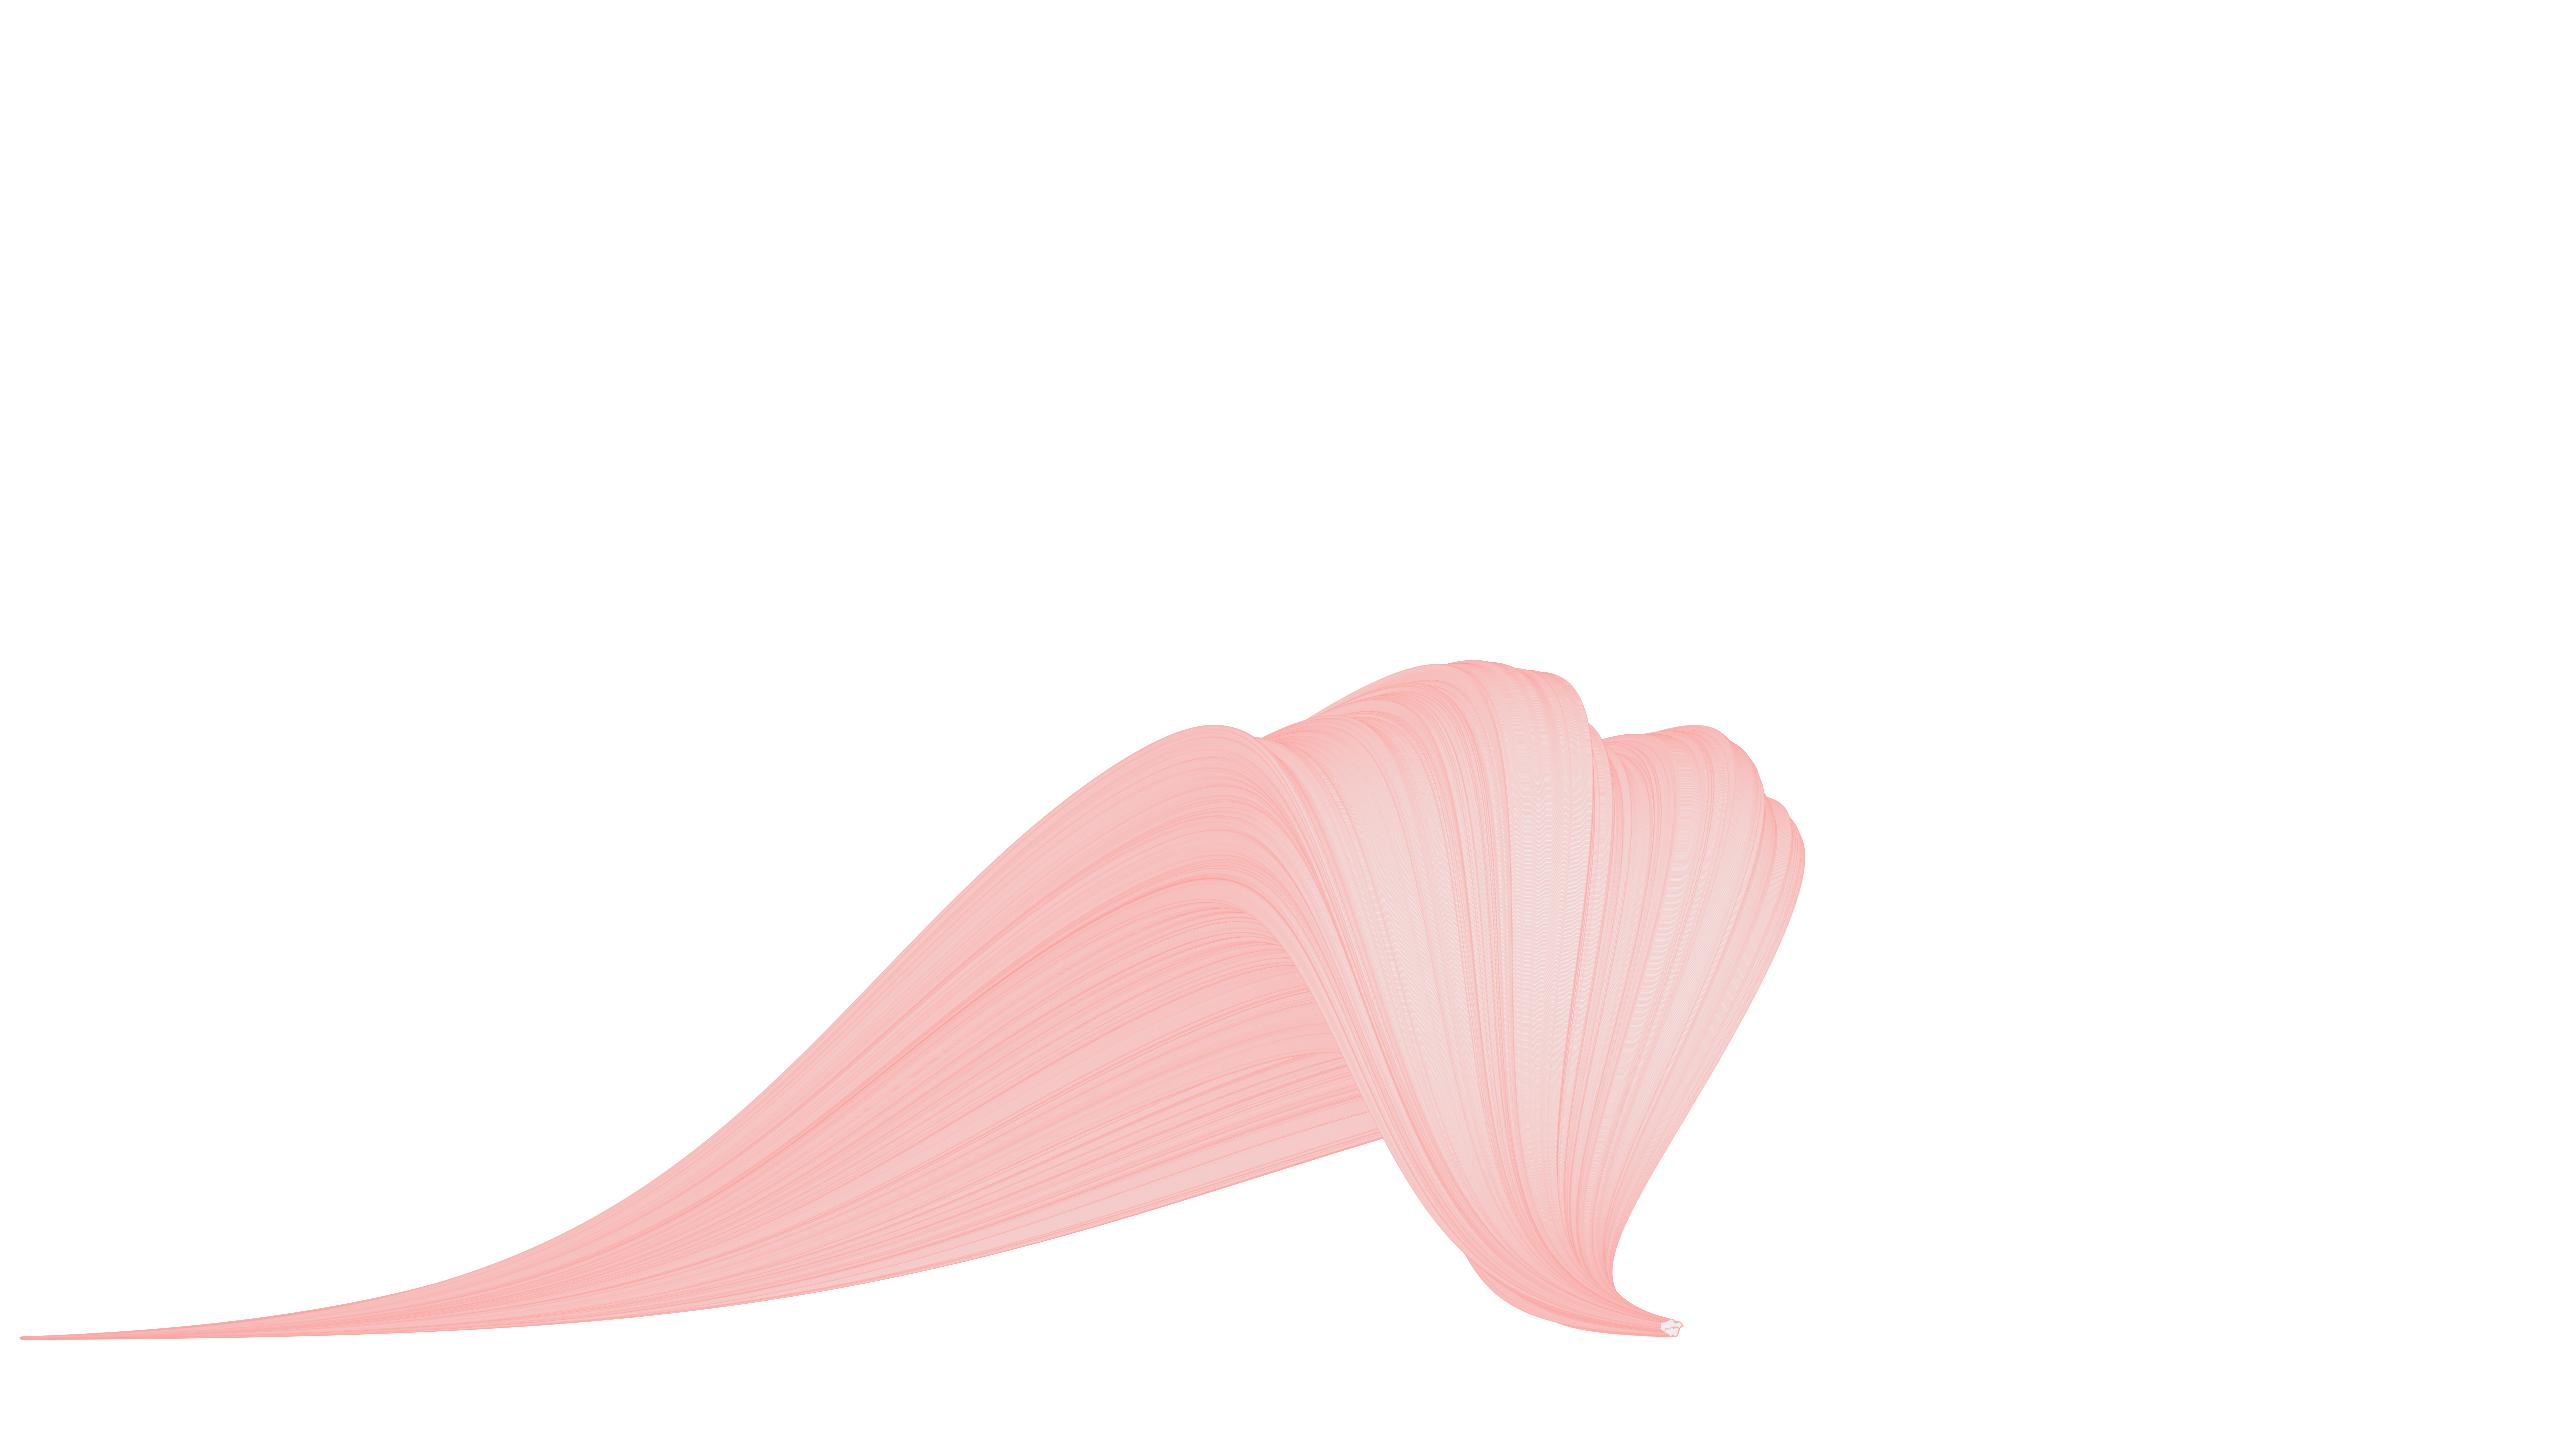
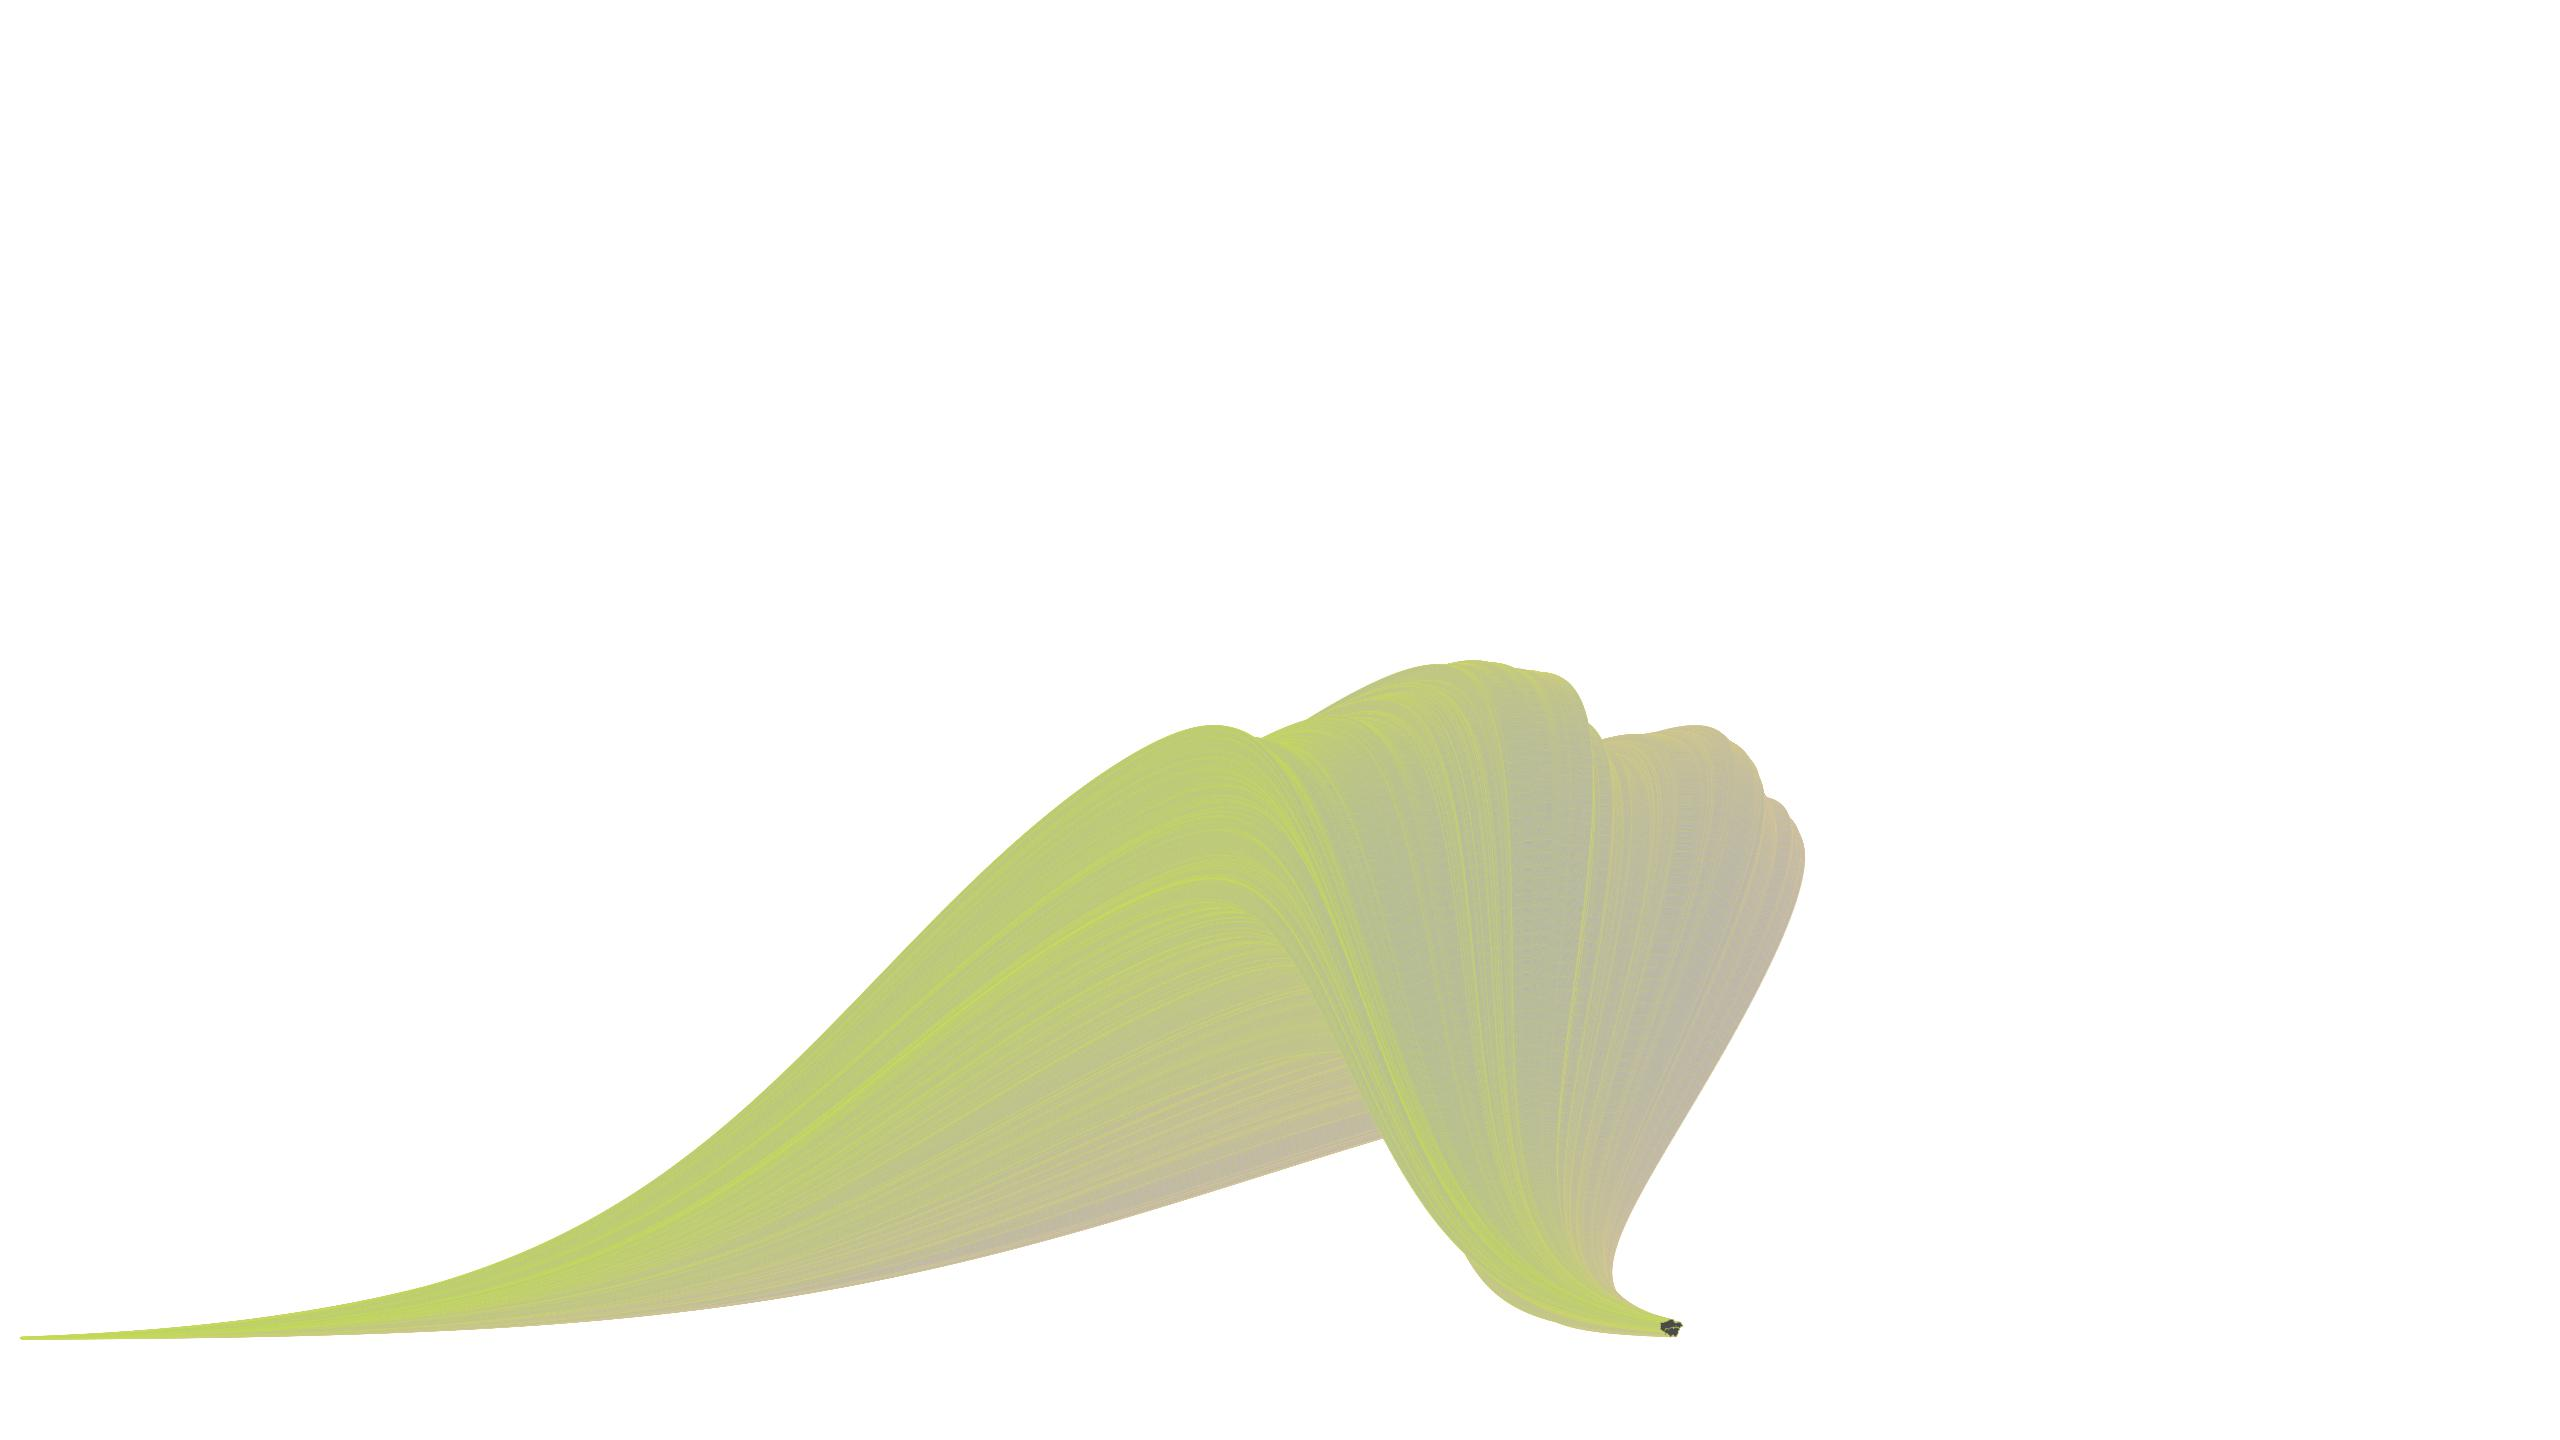
fine tuning

Changed region(s): [[0.0312, 0.4375, 0.7188, 0.9375]]

diff --git a/utils/canvas.js b/utils/canvas.js
@@ -29,7 +29,11 @@ const drawSegment = (
     projection,
     { x, y, r },
     { x: nextX = x, y: nextY = y, r:nextR = r } = {},
-    iterations
+    iterations,
+    color1,
+    color2,
+    lastFillColor,
+    flowProgress
   ) => {
   const width = 2 * r;
   const height = 2 * r;
@@ -37,11 +41,20 @@ const drawSegment = (
   const nextHeight = 2 * nextR;
 
   for (let i = 0; i < iterations; i++) {
-    const progress = i / iterations;
+    const progress = i / (iterations - 1);
     const interpolatedWidth = width + progress * (nextWidth - width);
     const interpolatedHeight = height + progress * (nextHeight - height);
     const interpolatedX = x + progress * (nextX - x);
     const interpolatedY = y + progress * (nextY - y);
+
+    let gradient = ctx.createLinearGradient(0, 0, (1 + progress) * interpolatedWidth, flowProgress * interpolatedHeight);
+    gradient.addColorStop(0, color1);
+    gradient.addColorStop(1, color2);
+    ctx.strokeStyle = gradient;
+
+    if (flowProgress === 1 && progress === 1) {
+      ctx.fillStyle = lastFillColor;
+    }
 
     const scaledProjection = projection.fitSize([interpolatedWidth, interpolatedHeight], shape);
     const gPath = geoPath()
@@ -68,21 +81,24 @@ const plotFlow = (
     color1,
     color2,
     fillColor,
+    lastFillColor,
     lineWidth,
     alpha,
     iterations
   ) => {
+  ctx.save();
+
   // some global canvas settings
   ctx.globalAlpha = alpha;
   ctx.lineWidth = lineWidth;
   ctx.fillStyle = fillColor;
-  ctx.strokeStyle = color1;
 
   // get the projection
   const projection = geoMercator();
 
   // run through the data
   data.forEach((dataPoint, i, arr) => {
+    const flowProgress = i / (arr.length - 1);
     const nextDataPoint = arr[i + 1];
     
     // get the coordinates
@@ -95,11 +111,50 @@ const plotFlow = (
                 projection,
                 dataPointCoords,
                 nextDataPointCoords,
-                iterations);
+                iterations,
+                color1,
+                color2,
+                lastFillColor,
+                flowProgress);
   });
+
+  ctx.restore();
+};
+
+const plotMarks = (
+    ctx,
+    xScale,
+    yScale,
+    dateLabels,
+    r = 5,
+    color = '#000000'
+  ) => {
+  ctx.save();
+  ctx.fillStyle = color;
+
+  const offset = 10;
+
+  // x labels
+  const yStart = yScale.range()[0] + r + offset;
+  dateLabels.forEach(label => {
+    ctx.beginPath();
+    ctx.arc(xScale(label), yStart, r, 0, 2 * Math.PI, false);
+    ctx.fill();
+  });
+
+  // y labels
+  const xStart = xScale.range()[0] - r - offset;
+  yScale.domain().forEach(label => {
+    ctx.beginPath();
+    ctx.arc(xStart, yScale(label), r, 0, 2 * Math.PI, false);
+    ctx.fill();
+  });
+
+  ctx.restore();
 };
 
 module.exports = {
   initCanvas,
   plotFlow,
+  plotMarks,
 };

diff --git a/index.js b/index.js
@@ -1,5 +1,5 @@
 const config = require('./config');
-const { initCanvas, plotFlow } = require('./utils/canvas');
+const { initCanvas, plotFlow, plotMarks } = require('./utils/canvas');
 const { loadMutantData, loadShape, exportToImage } = require('./utils/io');
 const { defineScales } = require('./utils/scales');
 const { variantColors } = require('./colors');
@@ -13,7 +13,7 @@ const { variantColors } = require('./colors');
   const { xScale, yScale, rScale } = defineScales(data, config.width, config.height);
   
   // plot
-  const variants = [...new Set(data.map(d => d.variant))];
+  const variants = [...new Set(data.map(d => d.variant))];//.filter(d => d === 'B.40');//.filter(d => /^voc/i.test(d))//.filter(d => d === 'B')//.filter(d => /^voc/i.test(d));
   for (variant of variants) {
     // loop through variants
     // one plot per variant
@@ -27,6 +27,10 @@ const { variantColors } = require('./colors');
     // get the colors
     const { color1, color2 } = variantColors.find(d => d.variant === variant);
 
+    if (variant === 'B') {
+      plotMarks(ctx, xScale, yScale, config.dateLabels);
+    }
+
     plotFlow(ctx,
              data.filter(d => d.variant === variant),
              shape,
@@ -36,9 +40,11 @@ const { variantColors } = require('./colors');
              color1,
              color2,
              config.fillColor,
+             config.lastFillColor,
              config.lineWidth,
              config.alpha,
              config.iterations);
+
 
     // export image
     await exportToImage(canvas,

diff --git a/config.js b/config.js
@@ -4,10 +4,17 @@ module.exports = {
   width: 2560,
   height: 1440,
   backgroundColor: '#FFFFFF',
-  fillColor: '#EEEEEE',
+  fillColor: '#B0B0B0',
+  lastFillColor: '#333333',
   lineWidth: 0.3,
-  alpha: 1.0,
-  iterations: 10,
+  alpha: 0.8,
+  iterations: 13,
+  dateLabels: [
+    new Date(2020, 2, 1),
+    new Date(2020, 7, 1),
+    new Date(2021, 0, 1),
+    new Date(2021, 1, 14)
+  ],
   outputPath: 'output',
   outputFormat: 'jpg'
 };

diff --git a/colors.js b/colors.js
@@ -26,8 +26,8 @@ const variantColors = [
   },
   {
     variant: 'B.1.177',
-    color1: '#FF928E',
-    color2: '#ABB17B'
+    color1: '#C8EF25',
+    color2: '#f0b6d1'
   },
   {
     variant: 'B.1.98',
@@ -41,8 +41,8 @@ const variantColors = [
   },
   {
     variant: 'VOC 202012/01',
-    color1: '#C8EF25',
-    color2: '#F7DFEA'
+    color1: '#FF928E',
+    color2: '#ABB17B'
   },
   {
     variant: 'minority variants',
